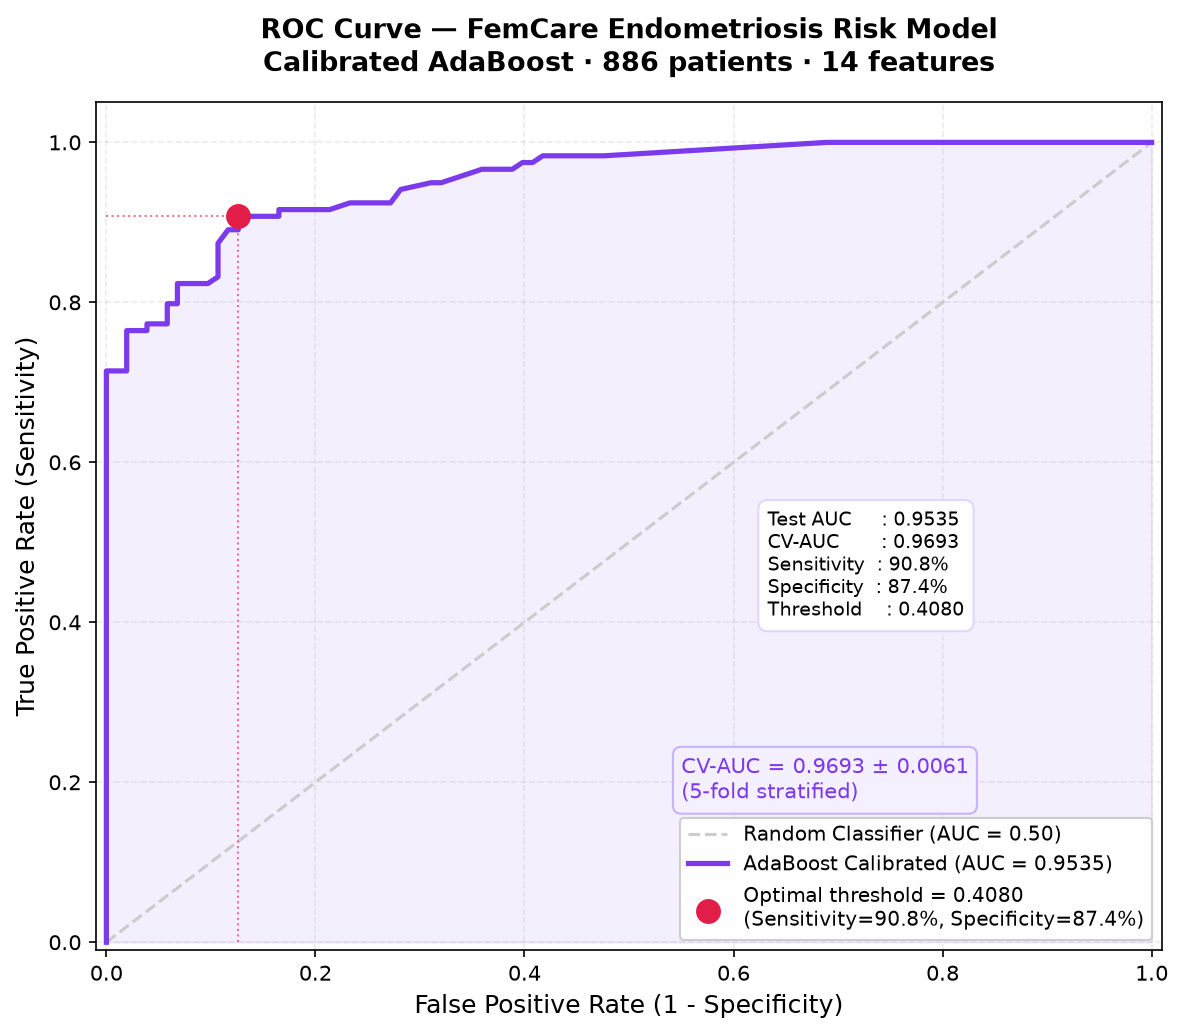
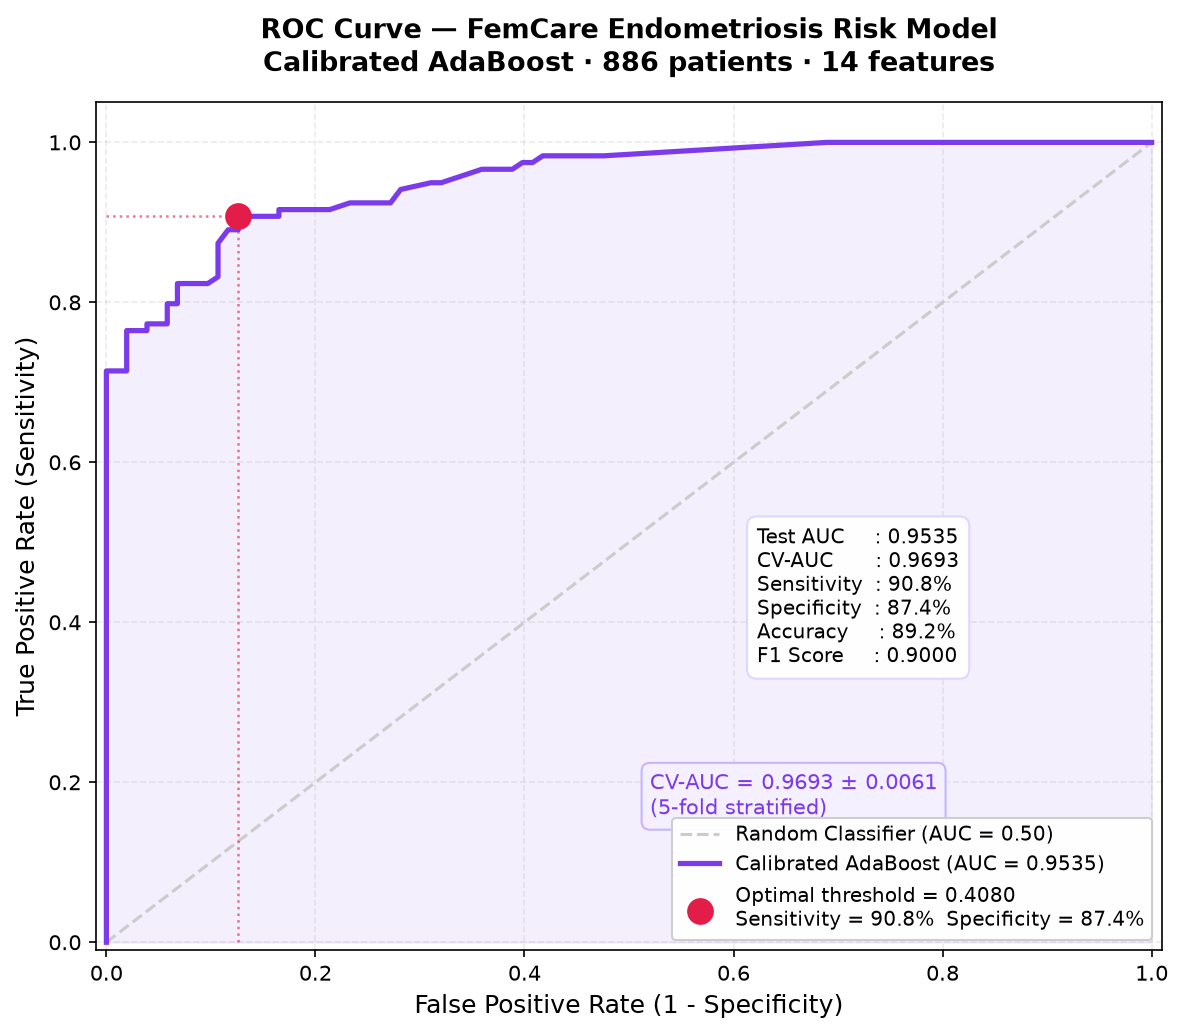
Final Plots

Changed region(s): [[0.5478, 0.7118, 0.9738, 0.8975], [0.6391, 0.4952, 0.8216, 0.6499]]

diff --git a/femcare_roc_curve.py b/femcare_roc_curve.py
@@ -1,10 +1,13 @@
 """
-femcare_roc_curve.py
----------------------
-Generates ROC curve for the production femcare_model_final.pkl
-Run from D:\FemCare\
+femcare_plots_final.py
+-----------------------
+Generates 3 publication-quality plots for FemCare results section:
+  1. ROC Curve
+  2. Confusion Matrix
+  3. Radar Chart (model performance across metrics)
 
-Output: roc_curve_final.png
+Run from D:\FemCare\
+Output: roc_curve_final.png, confusion_matrix_final.png, radar_final.png
 """
 
 import warnings
@@ -15,117 +18,265 @@ import pandas as pd
 import numpy as np
 import matplotlib.pyplot as plt
 import matplotlib.patches as mpatches
+from matplotlib.patches import FancyBboxPatch
+import matplotlib.gridspec as gridspec
 from sklearn.model_selection import train_test_split, StratifiedKFold, cross_val_score
-from sklearn.metrics import roc_curve, auc, roc_auc_score
+from sklearn.metrics import (roc_curve, auc, confusion_matrix,
+                             accuracy_score, recall_score, f1_score,
+                             roc_auc_score)
+import math
 
 # ── Load model and features ──────────────────────────────────
+print("Loading model and data...")
 model = joblib.load("femcare_model_final.pkl")
 
 with open("femcare_features.txt", "r") as f:
     FEATURES = [line.strip() for line in f if line.strip()]
 
-# ── Load dataset ─────────────────────────────────────────────
 df = pd.read_excel("considerable dataset.xlsx")
 X  = df[FEATURES]
 y  = df["label"]
 
-# ── Same exact split as training ─────────────────────────────
 X_train, X_test, y_train, y_test = train_test_split(
     X, y, test_size=0.25, random_state=42, stratify=y
 )
 
-# ── Get probabilities ─────────────────────────────────────────
 y_prob = model.predict_proba(X_test)[:, 1]
-
-# ── Compute ROC ──────────────────────────────────────────────
 fpr, tpr, thresholds = roc_curve(y_test, y_prob)
-roc_auc              = auc(fpr, tpr)
+roc_auc_val = auc(fpr, tpr)
 
-# ── Youden optimal point ─────────────────────────────────────
-youden_idx       = np.argmax(tpr - fpr)
-optimal_thresh   = thresholds[youden_idx]
-optimal_fpr      = fpr[youden_idx]
-optimal_tpr      = tpr[youden_idx]
+youden_idx     = np.argmax(tpr - fpr)
+optimal_thresh = thresholds[youden_idx]
+optimal_fpr    = fpr[youden_idx]
+optimal_tpr    = tpr[youden_idx]
 
-# ── CV AUC ───────────────────────────────────────────────────
+y_pred = (y_prob >= optimal_thresh).astype(int)
+
+cm             = confusion_matrix(y_test, y_pred)
+tn, fp, fn, tp = cm.ravel()
+
+acc  = accuracy_score(y_test, y_pred)
+sens = recall_score(y_test, y_pred)
+spec = recall_score(y_test, y_pred, pos_label=0)
+f1   = f1_score(y_test, y_pred)
+
 cv      = StratifiedKFold(n_splits=5, shuffle=True, random_state=42)
 cv_aucs = cross_val_score(model, X, y, cv=cv, scoring="roc_auc")
+cv_auc  = cv_aucs.mean()
 
-print("=" * 50)
-print("  ROC CURVE METRICS")
-print("=" * 50)
-print(f"  Test AUC              : {roc_auc:.4f}")
-print(f"  CV-AUC (5-fold mean)  : {cv_aucs.mean():.4f} ± {cv_aucs.std():.4f}")
-print(f"  Optimal threshold     : {optimal_thresh:.4f}")
-print(f"  At optimal point:")
-print(f"    Sensitivity (TPR)   : {optimal_tpr:.4f} ({optimal_tpr*100:.1f}%)")
-print(f"    1 - Specificity (FPR): {optimal_fpr:.4f} ({optimal_fpr*100:.1f}%)")
-print(f"    Specificity         : {(1-optimal_fpr):.4f} ({(1-optimal_fpr)*100:.1f}%)")
-print("=" * 50)
+print("=" * 55)
+print("  FINAL MODEL METRICS")
+print("=" * 55)
+print(f"  Test AUC         : {roc_auc_val:.4f}")
+print(f"  CV-AUC (5-fold)  : {cv_auc:.4f} ± {cv_aucs.std():.4f}")
+print(f"  Accuracy         : {acc*100:.2f}%")
+print(f"  Sensitivity      : {sens*100:.2f}%")
+print(f"  Specificity      : {spec*100:.2f}%")
+print(f"  F1 Score         : {f1:.4f}")
+print(f"  Threshold        : {optimal_thresh:.4f}")
+print(f"  TP={tp}  FN={fn}  FP={fp}  TN={tn}")
+print("=" * 55)
 
-# ── Plot ─────────────────────────────────────────────────────
+
+# ════════════════════════════════════════════════════════════
+# PLOT 1 — ROC CURVE
+# ════════════════════════════════════════════════════════════
+print("\nGenerating ROC curve...")
+
 fig, ax = plt.subplots(figsize=(8, 7))
+fig.patch.set_facecolor("white")
 
-# Diagonal reference line
 ax.plot([0, 1], [0, 1],
         color="#cccccc", linestyle="--", linewidth=1.5,
         label="Random Classifier (AUC = 0.50)")
 
-# ROC curve with gradient fill
 ax.plot(fpr, tpr,
         color="#7c3aed", linewidth=2.5,
-        label=f"AdaBoost Calibrated (AUC = {roc_auc:.4f})")
+        label=f"Calibrated AdaBoost (AUC = {roc_auc_val:.4f})")
 
-# Fill under curve
 ax.fill_between(fpr, tpr, alpha=0.08, color="#7c3aed")
 
-# CV AUC band annotation
+ax.scatter([optimal_fpr], [optimal_tpr],
+           color="#e11d48", s=140, zorder=5,
+           label=f"Optimal threshold = {optimal_thresh:.4f}\n"
+                 f"Sensitivity = {optimal_tpr*100:.1f}%  "
+                 f"Specificity = {(1-optimal_fpr)*100:.1f}%")
+
+ax.plot([optimal_fpr, optimal_fpr], [0, optimal_tpr],
+        color="#e11d48", linestyle=":", linewidth=1.2, alpha=0.6)
+ax.plot([0, optimal_fpr], [optimal_tpr, optimal_tpr],
+        color="#e11d48", linestyle=":", linewidth=1.2, alpha=0.6)
+
 ax.annotate(
-    f"CV-AUC = {cv_aucs.mean():.4f} ± {cv_aucs.std():.4f}\n(5-fold stratified)",
-    xy=(0.55, 0.18),
-    fontsize=10, color="#7c3aed",
+    f"CV-AUC = {cv_auc:.4f} ± {cv_aucs.std():.4f}\n(5-fold stratified)",
+    xy=(0.52, 0.16), fontsize=10, color="#7c3aed",
     bbox=dict(boxstyle="round,pad=0.4", facecolor="#f5f0ff", edgecolor="#c4b5fd")
 )
 
-# Optimal threshold point
-ax.scatter([optimal_fpr], [optimal_tpr],
-           color="#e11d48", s=120, zorder=5,
-           label=f"Optimal threshold = {optimal_thresh:.4f}\n"
-                 f"(Sensitivity={optimal_tpr*100:.1f}%, Specificity={(1-optimal_fpr)*100:.1f}%)")
+metrics_text = (
+    f"Test AUC     : {roc_auc_val:.4f}\n"
+    f"CV-AUC       : {cv_auc:.4f}\n"
+    f"Sensitivity  : {sens*100:.1f}%\n"
+    f"Specificity  : {spec*100:.1f}%\n"
+    f"Accuracy     : {acc*100:.1f}%\n"
+    f"F1 Score     : {f1:.4f}"
+)
+ax.text(0.62, 0.50, metrics_text,
+        transform=ax.transAxes, fontsize=9.5,
+        verticalalignment="top",
+        bbox=dict(boxstyle="round,pad=0.5",
+                  facecolor="white", edgecolor="#ddd6fe", alpha=0.95))
 
-# Dotted lines to axes from optimal point
-ax.plot([optimal_fpr, optimal_fpr], [0, optimal_tpr],
-        color="#e11d48", linestyle=":", linewidth=1, alpha=0.6)
-ax.plot([0, optimal_fpr], [optimal_tpr, optimal_tpr],
-        color="#e11d48", linestyle=":", linewidth=1, alpha=0.6)
-
-# Labels and formatting
 ax.set_xlabel("False Positive Rate (1 - Specificity)", fontsize=12)
 ax.set_ylabel("True Positive Rate (Sensitivity)", fontsize=12)
 ax.set_title("ROC Curve — FemCare Endometriosis Risk Model\n"
              "Calibrated AdaBoost · 886 patients · 14 features",
              fontsize=13, fontweight="bold", pad=15)
-
 ax.set_xlim([-0.01, 1.01])
 ax.set_ylim([-0.01, 1.05])
 ax.grid(alpha=0.25, linestyle="--")
 ax.legend(loc="lower right", fontsize=9.5, framealpha=0.95)
 
-# Metrics box
-metrics_text = (
-    f"Test AUC     : {roc_auc:.4f}\n"
-    f"CV-AUC       : {cv_aucs.mean():.4f}\n"
-    f"Sensitivity  : {optimal_tpr*100:.1f}%\n"
-    f"Specificity  : {(1-optimal_fpr)*100:.1f}%\n"
-    f"Threshold    : {optimal_thresh:.4f}"
-)
-ax.text(0.63, 0.52, metrics_text,
-        transform=ax.transAxes, fontsize=9,
-        verticalalignment="top",
-        bbox=dict(boxstyle="round,pad=0.5",
-                  facecolor="white", edgecolor="#ddd6fe", alpha=0.95))
-
 plt.tight_layout()
 plt.savefig("roc_curve_final.png", dpi=150, bbox_inches="tight")
-plt.show()
-print("\n>> Saved: roc_curve_final.png")
+plt.close()
+print(">> Saved: roc_curve_final.png")
+
+
+# ════════════════════════════════════════════════════════════
+# PLOT 2 — CONFUSION MATRIX
+# ════════════════════════════════════════════════════════════
+print("Generating confusion matrix...")
+
+fig, ax = plt.subplots(figsize=(7, 6))
+fig.patch.set_facecolor("white")
+
+values    = np.array([[tp, fn], [fp, tn]])
+labels    = np.array([
+    [f"TP\n{tp}\n(Endo correctly found)",   f"FN\n{fn}\n(Endo missed)"],
+    [f"FP\n{fp}\n(Healthy false alarm)",     f"TN\n{tn}\n(Healthy correctly cleared)"]
+])
+
+colors = np.array([
+    ["#EAF3DE", "#FCEBEB"],
+    ["#FAEEDA", "#E6F1FB"]
+])
+text_colors = np.array([
+    ["#27500A", "#791F1F"],
+    ["#633806", "#0C447C"]
+])
+
+for i in range(2):
+    for j in range(2):
+        ax.add_patch(plt.Rectangle(
+            (j, 1-i), 1, 1,
+            facecolor=colors[i][j], edgecolor="white", linewidth=3
+        ))
+        ax.text(j + 0.5, 1.5 - i, labels[i][j],
+                ha="center", va="center",
+                fontsize=12, color=text_colors[i][j],
+                fontweight="bold" if i == j else "normal",
+                linespacing=1.6)
+
+ax.set_xlim(0, 2)
+ax.set_ylim(0, 2)
+ax.set_xticks([0.5, 1.5])
+ax.set_xticklabels(["Predicted\nEndometriosis", "Predicted\nHealthy"], fontsize=11)
+ax.set_yticks([0.5, 1.5])
+ax.set_yticklabels(["Actual\nHealthy", "Actual\nEndometriosis"], fontsize=11)
+ax.tick_params(length=0)
+
+for spine in ax.spines.values():
+    spine.set_visible(False)
+
+ax.set_title(f"Confusion Matrix — Test Set (n = {tp+fn+fp+tn} patients)\n"
+             f"Calibrated AdaBoost · Threshold = {optimal_thresh:.4f}",
+             fontsize=13, fontweight="bold", pad=18)
+
+summary = (f"Sensitivity: {sens*100:.1f}%  |  "
+           f"Specificity: {spec*100:.1f}%  |  "
+           f"Accuracy: {acc*100:.1f}%  |  "
+           f"F1: {f1:.4f}")
+fig.text(0.5, 0.01, summary, ha="center", fontsize=10, color="#555555")
+
+plt.tight_layout(rect=[0, 0.04, 1, 1])
+plt.savefig("confusion_matrix_final.png", dpi=150, bbox_inches="tight")
+plt.close()
+print(">> Saved: confusion_matrix_final.png")
+
+
+# ════════════════════════════════════════════════════════════
+# PLOT 3 — RADAR CHART
+# ════════════════════════════════════════════════════════════
+print("Generating radar chart...")
+
+categories  = ["AUC", "CV-AUC", "Accuracy", "Sensitivity", "Specificity", "F1 Score"]
+values_radar = [roc_auc_val, cv_auc, acc, sens, spec, f1]
+
+N      = len(categories)
+angles = [n / float(N) * 2 * math.pi for n in range(N)]
+angles += angles[:1]
+
+values_radar_plot = values_radar + values_radar[:1]
+
+fig, ax = plt.subplots(figsize=(7, 7), subplot_kw=dict(polar=True))
+fig.patch.set_facecolor("white")
+
+# Grid circles
+for r in [0.6, 0.7, 0.8, 0.9, 1.0]:
+    ax.plot(angles, [r] * (N + 1), color="#e5e7eb", linewidth=0.8, linestyle="--")
+    ax.text(0, r, f"{r:.1f}", ha="center", va="center",
+            fontsize=7, color="#9ca3af")
+
+# Spoke lines
+for angle in angles[:-1]:
+    ax.plot([angle, angle], [0, 1], color="#e5e7eb", linewidth=0.8)
+
+# Fill area
+ax.fill(angles, values_radar_plot, color="#7c3aed", alpha=0.15)
+
+# Border line
+ax.plot(angles, values_radar_plot,
+        color="#7c3aed", linewidth=2.5, linestyle="solid")
+
+# Data points
+# Data points
+for angle, val in zip(angles[:-1], values_radar):
+    ax.scatter(angle, val, color="#e11d48", s=80, zorder=5)
+    ax.text(angle, val + 0.07, f"{val:.3f}",
+            ha="center", va="center",
+            fontsize=9, fontweight="bold", color="#7c3aed")
+
+# Actually scatter correctly
+for i, (angle, val) in enumerate(zip(angles[:-1], values_radar)):
+    ax.scatter(angle, val, color="#e11d48", s=80, zorder=5)
+    offset = 0.07
+    ax.text(angle, val + offset, f"{val:.3f}",
+            ha="center", va="center",
+            fontsize=9, fontweight="bold", color="#7c3aed")
+
+ax.set_xticks(angles[:-1])
+ax.set_xticklabels(categories, fontsize=11, fontweight="500", color="#1c0a2e")
+ax.set_ylim(0, 1.1)
+ax.set_yticks([])
+ax.spines["polar"].set_visible(False)
+
+ax.set_title("Model Performance Radar — FemCare\n"
+             "Calibrated AdaBoost · Test Set",
+             fontsize=13, fontweight="bold", pad=25, color="#1c0a2e")
+
+purple_patch = mpatches.Patch(color="#7c3aed", alpha=0.4, label="AdaBoost (Calibrated)")
+ax.legend(handles=[purple_patch], loc="upper right",
+          bbox_to_anchor=(1.3, 1.15), fontsize=10)
+
+plt.tight_layout()
+plt.savefig("radar_final.png", dpi=150, bbox_inches="tight")
+plt.close()
+print(">> Saved: radar_final.png")
+
+print("\n" + "=" * 55)
+print("  ALL 3 PLOTS SAVED SUCCESSFULLY")
+print("  roc_curve_final.png")
+print("  confusion_matrix_final.png")
+print("  radar_final.png")
+print("=" * 55)